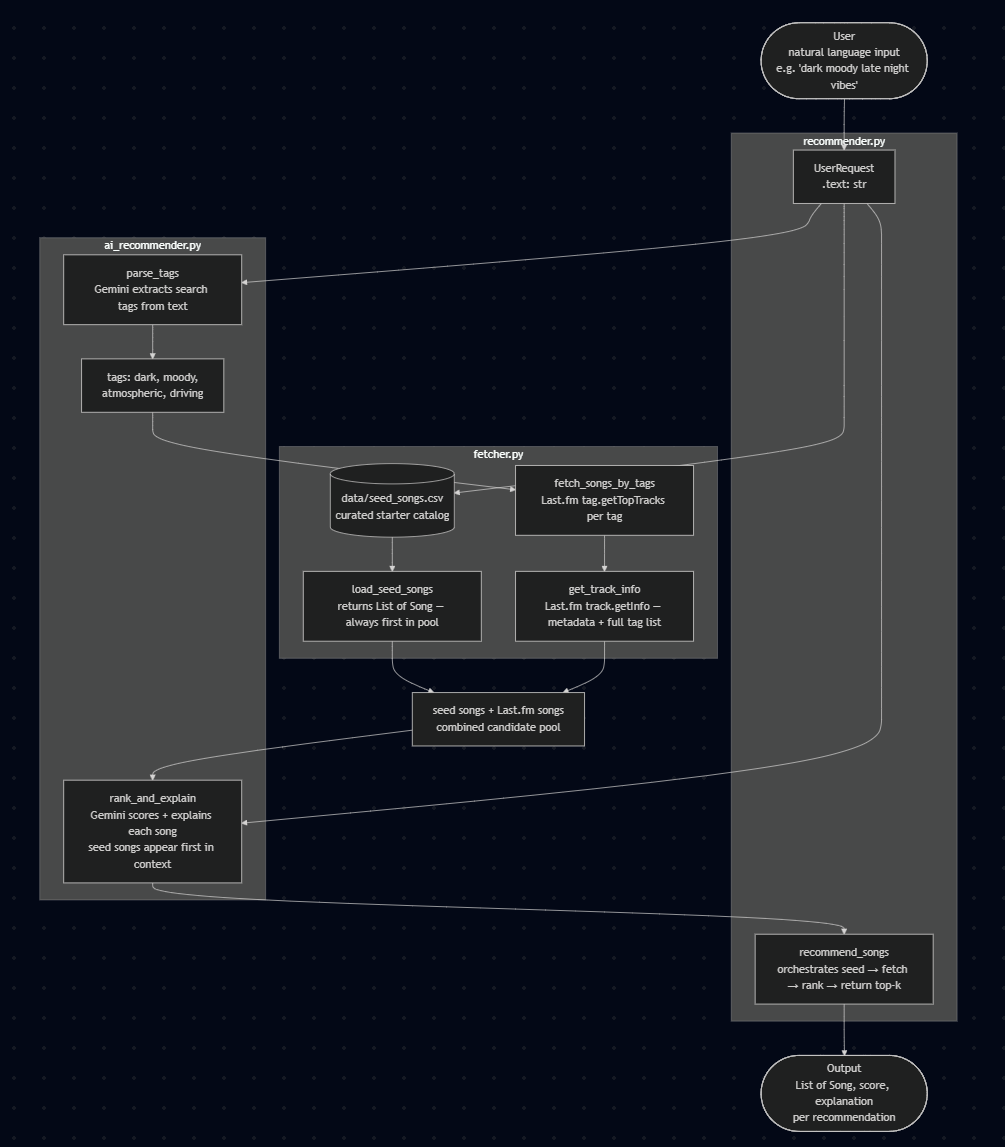
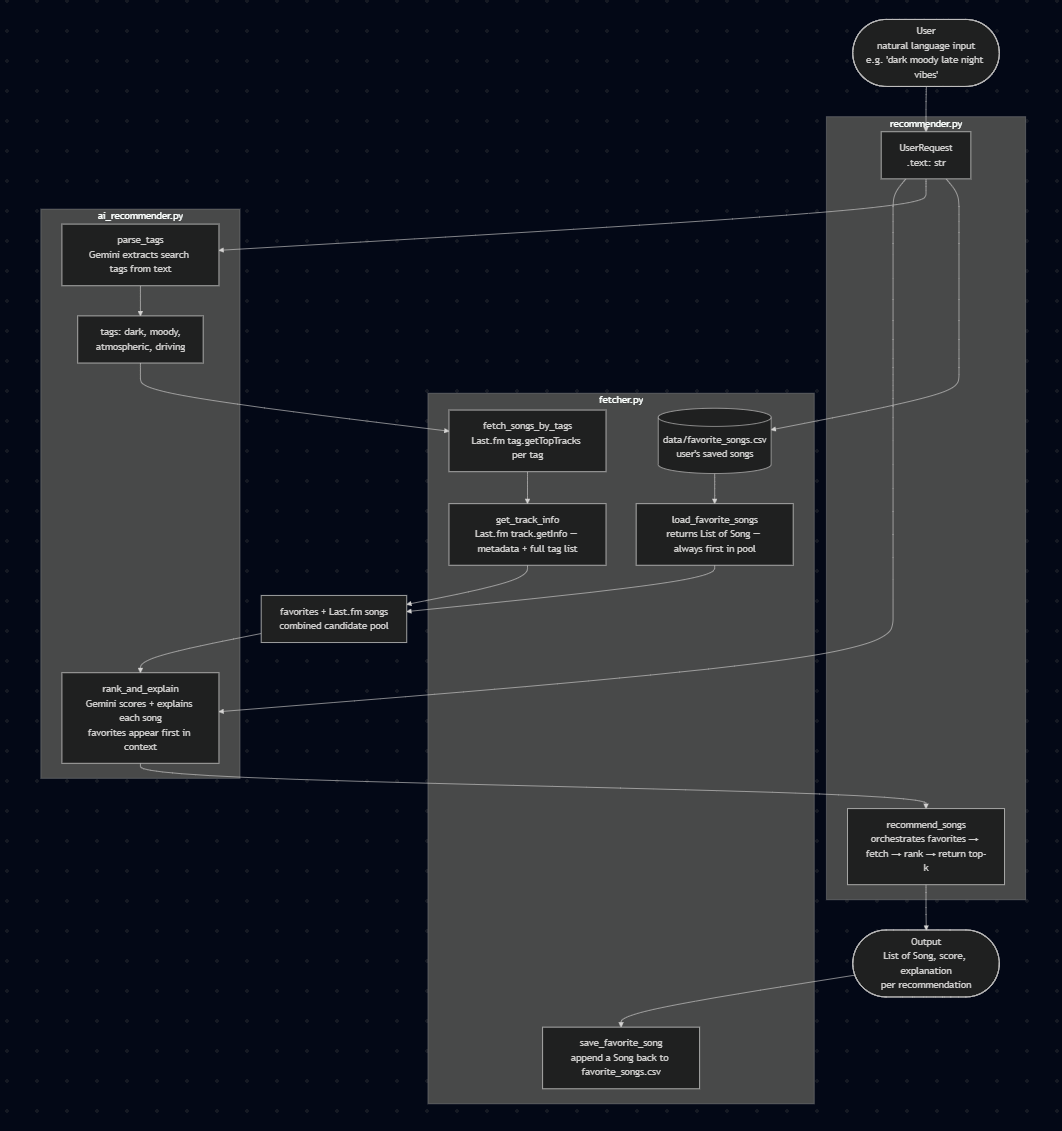
Updated Schema and planning to use CSV as a personal favorites to check first to recommend people

diff --git a/diagrams/architecture.md b/diagrams/architecture.md
@@ -8,15 +8,16 @@ flowchart TD
 
     subgraph recommender.py
         B[UserRequest\n.text: str]
-        J[recommend_songs\norchestrates seed → fetch → rank → return top-k]
+        J[recommend_songs\norchestrates favorites → fetch → rank → return top-k]
     end
 
-    B --> SEED
+    B --> FAV
     B --> C
 
     subgraph fetcher.py
-        SEED[(data/seed_songs.csv\ncurated starter catalog)]
-        SEED --> SEEDOUT[load_seed_songs\nreturns List of Song — always first in pool]
+        FAV[(data/favorite_songs.csv\nuser's saved songs)]
+        FAV --> FAVOUT[load_favorite_songs\nreturns List of Song — always first in pool]
+        SAVE[save_favorite_song\nappend a Song back to favorite_songs.csv]
         C2[fetch_songs_by_tags\nLast.fm tag.getTopTracks per tag]
         C2 --> F[get_track_info\nLast.fm track.getInfo — metadata + full tag list]
     end
@@ -24,18 +25,19 @@ flowchart TD
     subgraph ai_recommender.py
         C[parse_tags\nGemini extracts search tags from text]
         C --> D[tags: dark, moody,\natmospheric, driving]
-        I[rank_and_explain\nGemini scores + explains each song\nseed songs appear first in context]
+        I[rank_and_explain\nGemini scores + explains each song\nfavorites appear first in context]
     end
 
     D --> C2
 
-    SEEDOUT --> MERGE
+    FAVOUT --> MERGE
     F --> MERGE
-    MERGE[seed songs + Last.fm songs\ncombined candidate pool]
+    MERGE[favorites + Last.fm songs\ncombined candidate pool]
 
     MERGE --> I
     B --> I
     I --> J
 
     J --> K([Output\nList of Song, score, explanation\nper recommendation])
+    K --> SAVE
 ```